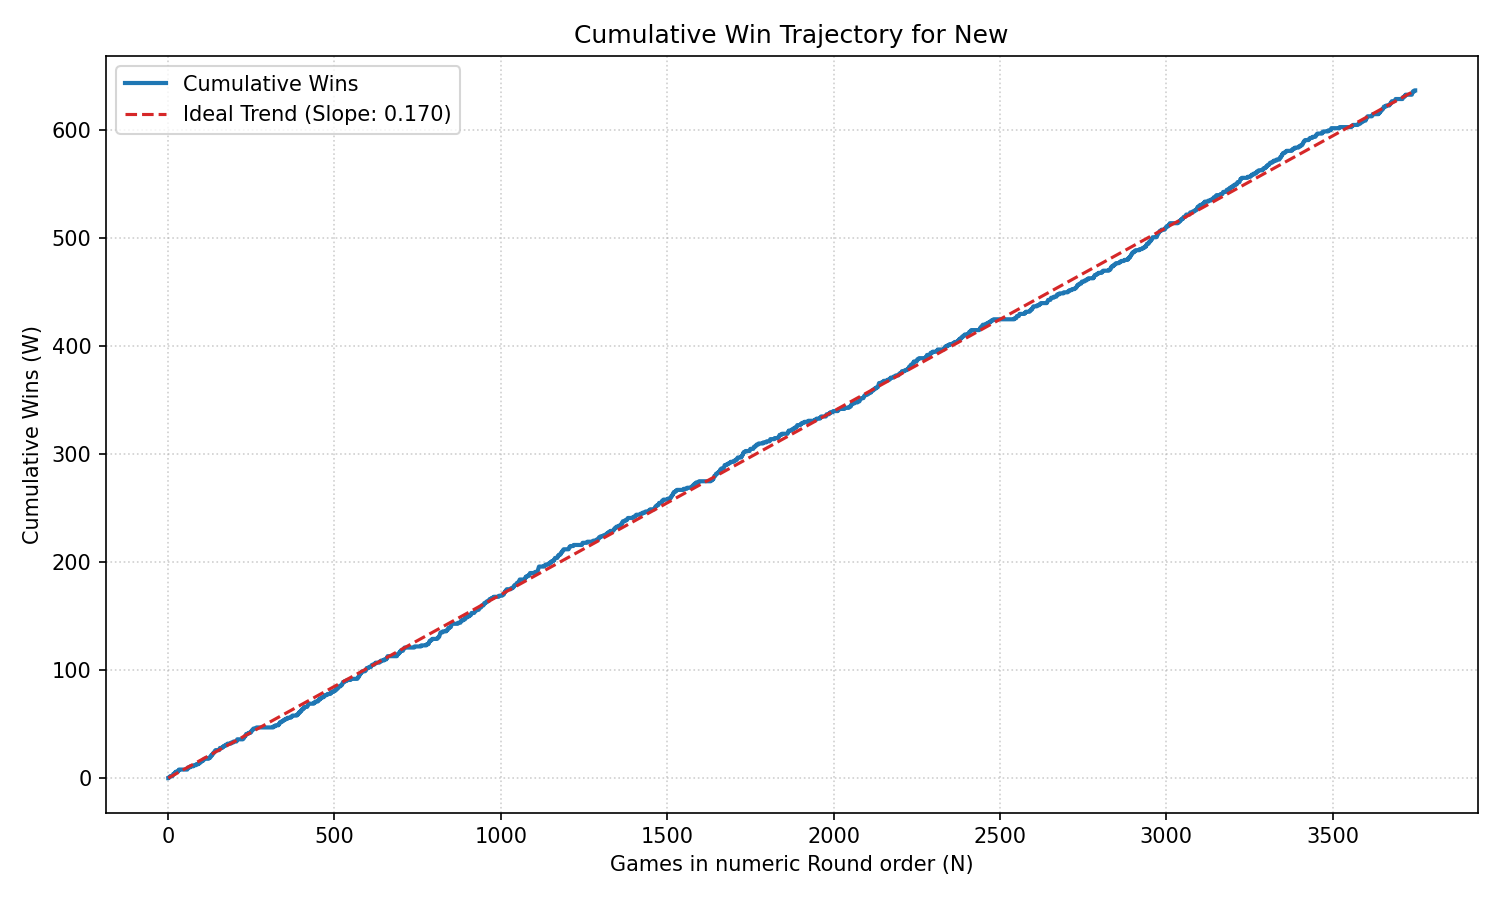
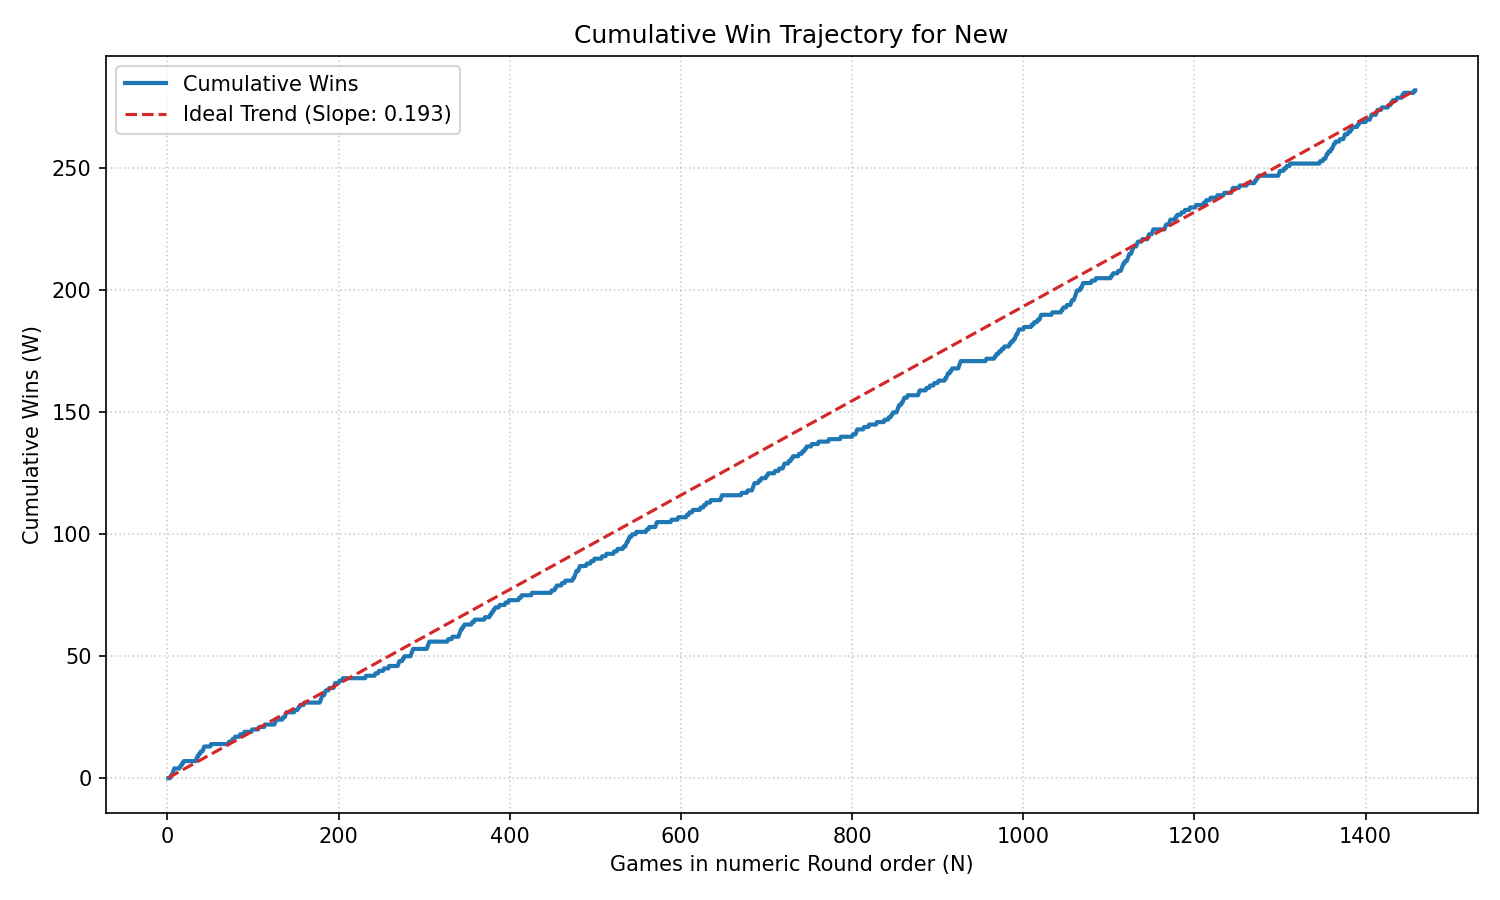
feat(eval,tuner,docs): apply Phase 13 Block 7a Imbalance R1 (+12 Elo SPRT) and update audit docs

diff --git a/chess_engine/classical/constants.py b/chess_engine/classical/constants.py
@@ -454,24 +454,24 @@ SCALE_FACTOR_KRPKR_FORTRESS = 8       # King + Rook + Pawn vs King + Rook (fortr
 # 最終不平衡 = (white_bonus - black_bonus) / 16
 
 IMBALANCE_QUADRATIC_OURS = np.array([
-    [1246, 0, 0, 0, 0, 0],
-    [26, 13, 0, 0, 0, 0],
-    [35, 174, -54, 0, 0, 0],
-    [0, 68, 4, 0, 0, 0],
-    [-23, -5, 47, 109, -160, 0],
-    [-206, 22, 132, 147, -121, -4],
+    [1221, 0, 0, 0, 0, 0],
+    [26, 12, 0, 0, 0, 0],
+    [34, 160, -53, 0, 0, 0],
+    [0, 66, 4, 0, 0, 0],
+    [-23, -6, 47, 109, -160, 0],
+    [-208, 22, 132, 149, -121, -4],
 ], dtype=np.int32)
 IMBALANCE_QUADRATIC_THEIRS = np.array([
     [0, 0, 0, 0, 0, 0],
     [41, 0, 0, 0, 0, 0],
-    [10, 104, 0, 0, 0, 0],
-    [60, 86, 44, 0, 0, 0],
-    [50, 65, 27, -23, 0, 0],
-    [100, 170, -40, 163, 407, 0],
+    [10, 109, 0, 0, 0, 0],
+    [60, 89, 44, 0, 0, 0],
+    [49, 69, 27, -23, 0, 0],
+    [100, 187, -40, 163, 430, 0],
 ], dtype=np.int32)
 IMBALANCE_DIVISOR = 20
 IMBALANCE_SCALE_MG = 53
-IMBALANCE_SCALE_EG = 75
+IMBALANCE_SCALE_EG = 79
 # =============================================================================
 # --- Search Constants / 搜尋常量 ---
 # =============================================================================

diff --git a/tuner/constants_snapshot.py b/tuner/constants_snapshot.py
@@ -458,24 +458,24 @@ SCALE_FACTOR_KRPKR_FORTRESS = 8       # King + Rook + Pawn vs King + Rook (fortr
 # 最終不平衡 = (white_bonus - black_bonus) / 16
 
 IMBALANCE_QUADRATIC_OURS = np.array([
-    [1246, 0, 0, 0, 0, 0],
-    [26, 13, 0, 0, 0, 0],
-    [35, 174, -54, 0, 0, 0],
-    [0, 68, 4, 0, 0, 0],
-    [-23, -5, 47, 109, -160, 0],
-    [-206, 22, 132, 147, -121, -4],
+    [1221, 0, 0, 0, 0, 0],
+    [26, 12, 0, 0, 0, 0],
+    [34, 160, -53, 0, 0, 0],
+    [0, 66, 4, 0, 0, 0],
+    [-23, -6, 47, 109, -160, 0],
+    [-208, 22, 132, 149, -121, -4],
 ], dtype=np.int32)
 IMBALANCE_QUADRATIC_THEIRS = np.array([
     [0, 0, 0, 0, 0, 0],
     [41, 0, 0, 0, 0, 0],
-    [10, 104, 0, 0, 0, 0],
-    [60, 86, 44, 0, 0, 0],
-    [50, 65, 27, -23, 0, 0],
-    [100, 170, -40, 163, 407, 0],
+    [10, 109, 0, 0, 0, 0],
+    [60, 89, 44, 0, 0, 0],
+    [49, 69, 27, -23, 0, 0],
+    [100, 187, -40, 163, 430, 0],
 ], dtype=np.int32)
 IMBALANCE_DIVISOR = 20
 IMBALANCE_SCALE_MG = 53
-IMBALANCE_SCALE_EG = 75
+IMBALANCE_SCALE_EG = 79
 # =============================================================================
 # --- Search Constants / 搜尋常量 ---
 # =============================================================================

diff --git a/tournament_analysis/calc_sprt.py b/tournament_analysis/calc_sprt.py
@@ -36,6 +36,7 @@ DEFAULT_PGN = HERE / "tournament_results.pgn"
 
 # Default SPRT hypothesis presets: (label, elo0, elo1)
 DEFAULT_BOUNDS: List[Tuple[str, float, float]] = [
+    ("新舊對戰", -3.0, 3.0),
     ("Tournament預設", 0.0, 10.0),
     ("中等增益", 0.0, 5.0),
     ("細微增益", 0.0, 3.0),

diff --git a/chess_engine/classical/EVAL_AUDIT_AND_FIX_PLAN_20261031.md b/chess_engine/classical/EVAL_AUDIT_AND_FIX_PLAN_20261031.md
@@ -802,6 +802,30 @@ flowchart TD
    * 修復 [`tuner/tuner.py`](../../tuner/tuner.py) `_enable_pst_rows` 於指定單一 `PST_MG` 或 `PST_EG` 搭配 `pst_pieces` 時會強制開啟雙表之缺陷，並在 [`tuner/texel_tuner_runner.ipynb`](../../tuner/texel_tuner_runner.ipynb) 清空輸出、移除 3 份重複 `copy*.ipynb` 後，於 **Section 10** 另設基於 `0.15` 基準的一鍵補調拆分區塊（`block1a_passed_tables_mild`、`block4a_pawn_penalties`、`block4a_connected_mg`、`block6e_pawn_mg`、`block6b_bishop_eg` 與 `pgn_new.npz` 驗證）。
    * 修復 [`chess_engine/nnue/transposition_table.py`](../nnue/transposition_table.py) 的 `probe_tt` 缺少 `inline='always'` 導致 Numba `Record`（`_EMPTY_TT_ENTRY`）跨非內聯呼叫邊界回傳堆疊殘值之問題（補上 `@nb.njit(cache=True, boundscheck=False, fastmath=True, inline='always')` 與 `probe_tt_best_move` 對應裝飾器），使 `test_probe_tt_best_move_avoids_pure_python_record_boxing` 與 `probe_tt` 未命中路徑穩定回傳 `(0, 0)`。
 
+---
+
+### 十三、Phase 13：`SF_LAMBDA=0.15` 後續調優消融、非靜態參數對戰教訓與 `Block 7a` Imbalance（2026-11-17 ~ 2026-11-18）
+
+在 [`classical_old/constants.py`](../classical_old/constants.py) 鎖定 `SF_LAMBDA=0.15` 對戰基準後，針對 Section 10 靜態小區塊與 `STATIC_ONLY_FROZEN_PARAMS`（47 組非靜態／搜尋耦合參數）完成以下實戰交叉檢驗：
+
+1. **Section 10 靜態補調飽和確認（2026-11-17）**：
+   * 僅 `block4a_connected_mg`（`CONNECTED_BONUS[5] 35→34`）與 `block6b_bishop_eg`（`EG Bishop 439→440`、`PST_EG[B]` 10 格 `±1 cp`）通過 `PASS`。
+   * `block1a_passed_tables_mild`（`K+P` 三集皆改善 `z=-11.2~-22.3`，但 `minor-only EG` 反向惡化並把 `val_zurichess` 推至 `+15.77`）判 `CAUTION`；`block4a_pawn_penalties` 因三集 `pure king+pawns` 同時崩潰（`z=+8.70~+13.48`）判 `REJECT`；`block6e_pawn_mg` 因 `val_pgn z=+2.67` 判 `REJECT`。
+   * 實證顯示純靜態 HCE 在 `SF_LAMBDA=0.15` 後已達表達飽和區，兵殘局常數只在 `K+P` 與 `minor-only EG` 間以 `±1 cp` 互相拉鋸，不建議放寬 `K+P` 守門硬擠。
+
+2. **非靜態參數（`STATIC_FEATURES_ONLY=False`）與「兩靜態 EPD 多數決」實戰否決（2026-11-17 ~ 2026-11-18）**：
+   * **單套 `block2a_threats`**（強制套用；`holdout -24.48` / `Zurichess -21.93` vs `val_pgn REJECT +15.58 / broad-EG +23.88`）：對 `0.15` 實戰 `1,406` 局（`703` 對，`227W-941D-238L`），**`-2.72 ± 9.94 Elo` (`SPRT[0,10] H0 ❌`, `LLR=-3.00`)**，於 `long(51-80m 0.488)` 與 `very_long(>80m 0.465)` 失分，印證 `val_pgn broad-EG` 守門精準。
+   * **全開凍結區塊＋「2/3 驗證集負 Z 即收」**（疊加 `block2a ×2`、`block5a`、`block5c`、`IMBALANCE_DIVISOR=19`、`block7a ×3`）：兩套同源性質的靜態 EPD（`holdout -37.22`、`val_zurichess -41.84`）聯手壓過 `val_pgn`（累積退步至 `z=+9.45`、`broad-EG +13.69`、`queenless +20.18`）；實戰 `1,826` 局（`913` 對，`319W-1182D-325L`）為 **`-1.14 ± 9.27 Elo`**（`[0, 10] LLR=-2.74`）。
+   * **乾淨 `0.15` 單獨重跑並組合 `block5c_king_safety_output`（`113/17960/113`）+ `IMBALANCE_DIVISOR=19`**：雖三集總分皆負（`holdout -3.51`、`val_pgn -23.80`、`Zurichess -16.28`），但 **`sf19-tactical`（`val_pgn +3.62`、`Zurichess +4.59`）與 `holdout phase=0 (+8.57)` 顯著惡化**；實戰 `600` 局（`300` 對，`93W-391D-116L`）於第 299 對觸 **`SPRT[0,10] H0 ❌`（`-13.32 ± 15.22 Elo`, `LLR=-3.05`）**（持黑 `43.50%`、`51-80m 0.441`），確認削弱 MG 王安全與調整不平衡除數不利實戰後退回乾淨 `0.15` 基準。
+
+3. **最新突破：乾淨 `0.15` 基準單獨套用 `Block 7a`（第 1 輪 `IMBALANCE_*`）實戰領先（2026-11-18）**：
+   * 退回乾淨 `0.15` 後，單獨套用 **第 1 輪 `block7a_imbalance`** 至 [`constants.py`](constants.py) 並同步 [`tuner/constants_snapshot.py`](../../tuner/constants_snapshot.py)：僅調整 `IMBALANCE_QUADRATIC_OURS`（如 `[0][0] 1246→1221`、`[2][1] 174→160`、`[3][1] 68→66`）、`IMBALANCE_QUADRATIC_THEIRS`（如 `[2][1] 104→109`、`[5][1] 170→187`、`[5][4] 407→430`）與 `IMBALANCE_SCALE_EG`（`75→79`）；其餘 `IMBALANCE_DIVISOR=20`、`IMBALANCE_SCALE_MG=53` 及靜態／威脅／王安全權重維持 `0.15` 原值。
+   * **對戰 `classical_old`（`0.15` 基準）進行中實況**（[`tournament_analysis/tournament_results.pgn`](../../tournament_analysis/tournament_results.pgn)，243k nodes/move，`calc_sprt.py` 截至 `1,450` 局 / `725` 對；`統計數據.py` 截至 `1,454` 局）：
+     * 戰績 `281W - 938D - 231L`（`1,454` 局統計為 `282W - 940D - 232L`，得分率 `51.72%`，和棋率 `64.65%`），**`+11.99 ± 10.44 Elo`**（**`95% CI [+1.56, +22.43]`**，`nElo = +20.56 ± 17.88`）。
+     * **`SPRT[-3, 3]`（新增「新舊對戰」預設）`LLR = +2.54`**、**`SPRT[0, 10] LLR = +2.47`**（盤中最高 `+2.86`）、**`SPRT[-5, 0] LLR = +2.56`**；四手數區間全勝（`≤25: 0.511`、`26–50: 0.518`、`51–80: 0.519`、`>80: 0.514`），節點與深度維持中立（`1,456` 局 `mean_d 16.83 vs 16.81`、`mean_n 243,079 vs 243,001`）。
+   * **第 2 輪續調 `block7a_imbalance`（維持未採用）**：基於 R1 續調（`OURS[0][0] 1221→1191`、`IMBALANCE_SCALE_EG 79→82`）雖使 `holdout (-15.45)` 與 `Zurichess (-30.25)` 續降，但 `val_pgn` 整體反轉惡化至 **`z = +5.59`**（`phase=64..95 +15.28`、`sf19-quiet +5.25`、`sf19-tactical +2.59`），已保留未採用（候選檔存於 `tuner/runs/classical_with_pgn_sf15/block7a_imbalance.py`）。
+   * **目前同步政策**：對戰尚未正式觸 `+2.94` 收線，[`classical_old/`](../classical_old/) 持續保留 `SF_LAMBDA=0.15` 凍結基準，待續跑正式 `H1 Accepted` 後再決定 `--sync`。
+
 
 
 

diff --git a/tuner/README.md b/tuner/README.md
@@ -49,6 +49,7 @@
 * **`val_pgn castling!=0` 相關性校正與 `val_zurichess` 仲裁**：
   * `val_pgn` 同局開局有易位權局面約連續 ~10 plies 共用結果，會膨脹 i.i.d. Z 值。當 `holdout` 與 `val_pgn` 全體及 `broad-EG` 皆顯著改善（`z < -3.0`），且 **僅** `val_pgn castling!=0` 出現中度退步（不同時超過極端門檻 `z > 8.0` 且 `delta > 3e-5`）時：若有 `val_zurichess` 交叉檢查且未同步觸發 severe，或未啟用 `val_zurichess` 時，將降級為 `CAUTION`（保留警告但不一刀 `REJECT`）。
   * 啟用 `USE_PGN_VAL=True` 與 `USE_ZURICHESS_VAL=True` 時，`val_zurichess` 扮演**診斷／仲裁角色**（不單方面對雙重 `PASS` 區塊投否決票，僅於 `castling!=0` 與 `val_pgn` 共同觸發 severe 時強化為 `REJECT`，或觸發單邊警告為 `CAUTION`；輕微正 Z 僅印出 `Info:`）。只有停用 `USE_PGN_VAL` 時，`val_zurichess` 才作為唯一外部閘門。
+  * **實戰教訓（2026-11-18）**：`dataset_epd_wdl_20m` holdout 與 `val_zurichess` 同屬靜態 EPD 來源，於 `THREAT_*`、`KING_DANGER_*`、`IMBALANCE_*` 等非靜態權重常出現同向靜態偏差；**切勿以「3 驗證集任 2 個 Z < 0 即放行」投票壓過 `val_pgn`（亦須注意 `sf19-tactical` 是否同步惡化）**，且對同一非靜態區塊連續疊調多輪極易在 EPD 上過擬合並拉壞實戰中局。
 
 ### (3) `SPSAOptimizer` 的 `scales^2` 座標步幅效應
 * `SPSAOptimizer` 透過 `u = theta / scales` 進行 `auto_scale=True` 縮放：`pert = ck * scales * delta` 且更新步幅再乘 `scales`，使等效座標學習率正比於 **`scales^2`**；同時啟用整數擾動保底 `c_floor = 1.0~1.25` 與 EMA 平滑候選追蹤。

diff --git a/README.md b/README.md
@@ -57,7 +57,7 @@ python -m tests.benchmark        # NNUE 版：python -m tests.benchmark_nn_real
 
 ### 2. 現行系統分析、審計與專題報告
 * **[HCE 與 SF11 對齊審核](chess_engine/classical/HCE_SF11_GAP_AUDIT.md)**（HCE 對齊主文件）與 **[殘局 vs Stockfish 驗證](chess_engine/classical/ENDGAME_SF_VERIFICATION.md)**
-* **[2026-10-31 經典評估審計與修復計畫](chess_engine/classical/EVAL_AUDIT_AND_FIX_PLAN_20261031.md)**：`evaluation.py` Bug／死碼清理、Phase 11 殘局/防禦對齊、Phase 12 `SF_LAMBDA=0.15` 調參（+8.48 Elo `H1✅`）與 TT 修復
+* **[2026-10-31 經典評估審計與修復計畫](chess_engine/classical/EVAL_AUDIT_AND_FIX_PLAN_20261031.md)**：`evaluation.py` Bug／死碼清理、Phase 11 殘局/防禦對齊、Phase 12 `SF_LAMBDA=0.15` 調參（+8.48 Elo `H1✅`）、Phase 13 非靜態對戰驗證與 `Block 7a` Imbalance（對戰 `0.15` 領先中）及 TT 修復
 * **[古典搜尋算法分析](chess_engine/classical/SEARCH_ANALYSIS.md)** 與 **[NNUE 搜尋分析](chess_engine/nnue/SEARCH_ANALYSIS.md)**：PVS、QS、剪枝及 Phase 18–29 調參結論
 * **[Numba JIT 編譯與快取報告](chess_engine/classical/JIT_COMPILE_CACHE_REPORT.md)**：1 MB 表上限、packed rook、StructRef 與冷/暖快取量測
 * **[搜尋 ↔ 評估介面](chess_engine/classical/SEARCH_EVAL_INTERFACE.md)**（KNOWN_WIN 護欄）、**[SEE 專題](chess_engine/classical/SEE_ANALYSIS.md)**、**[歷史啟發](chess_engine/classical/HISTORY_HEURISTICS_CN.md)**
